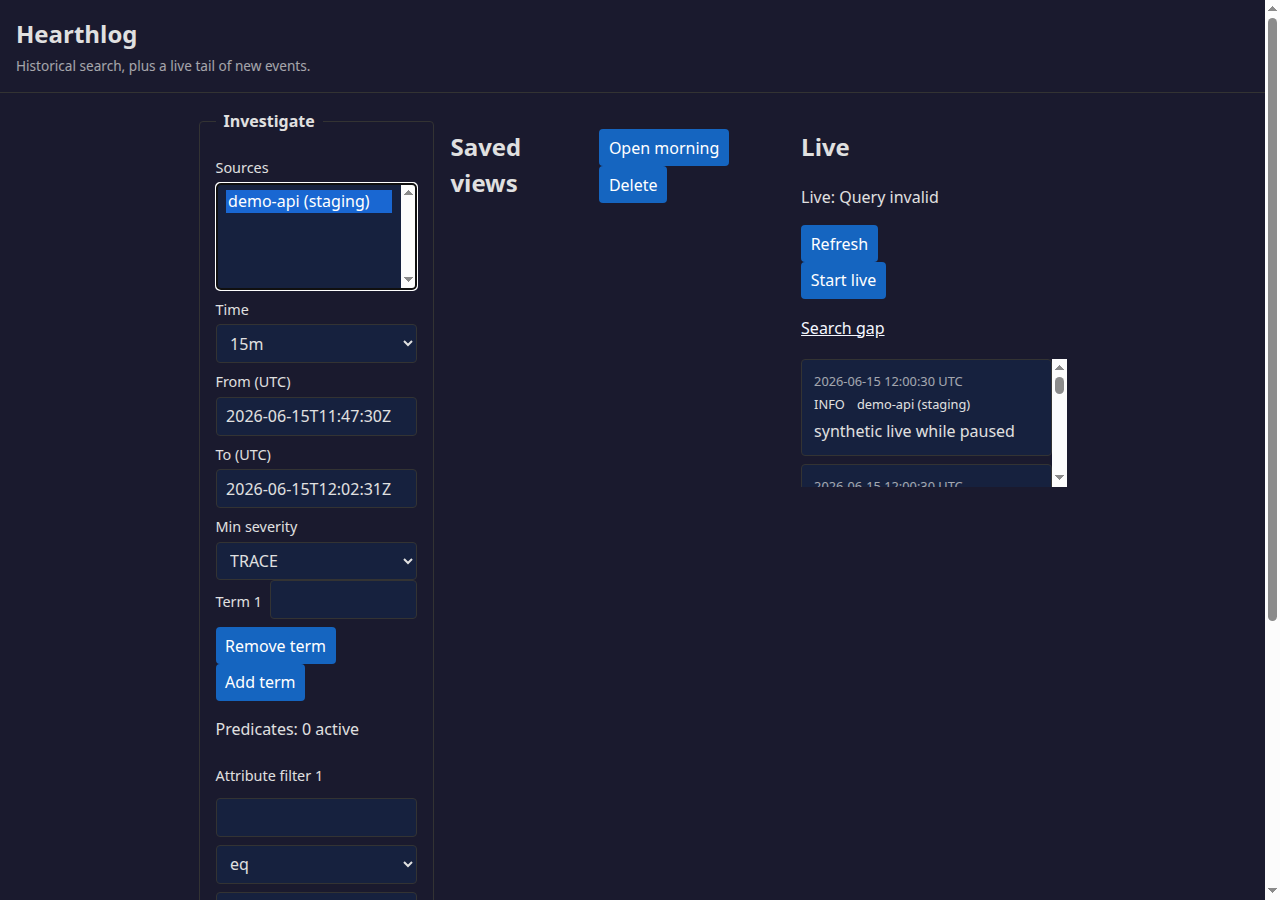
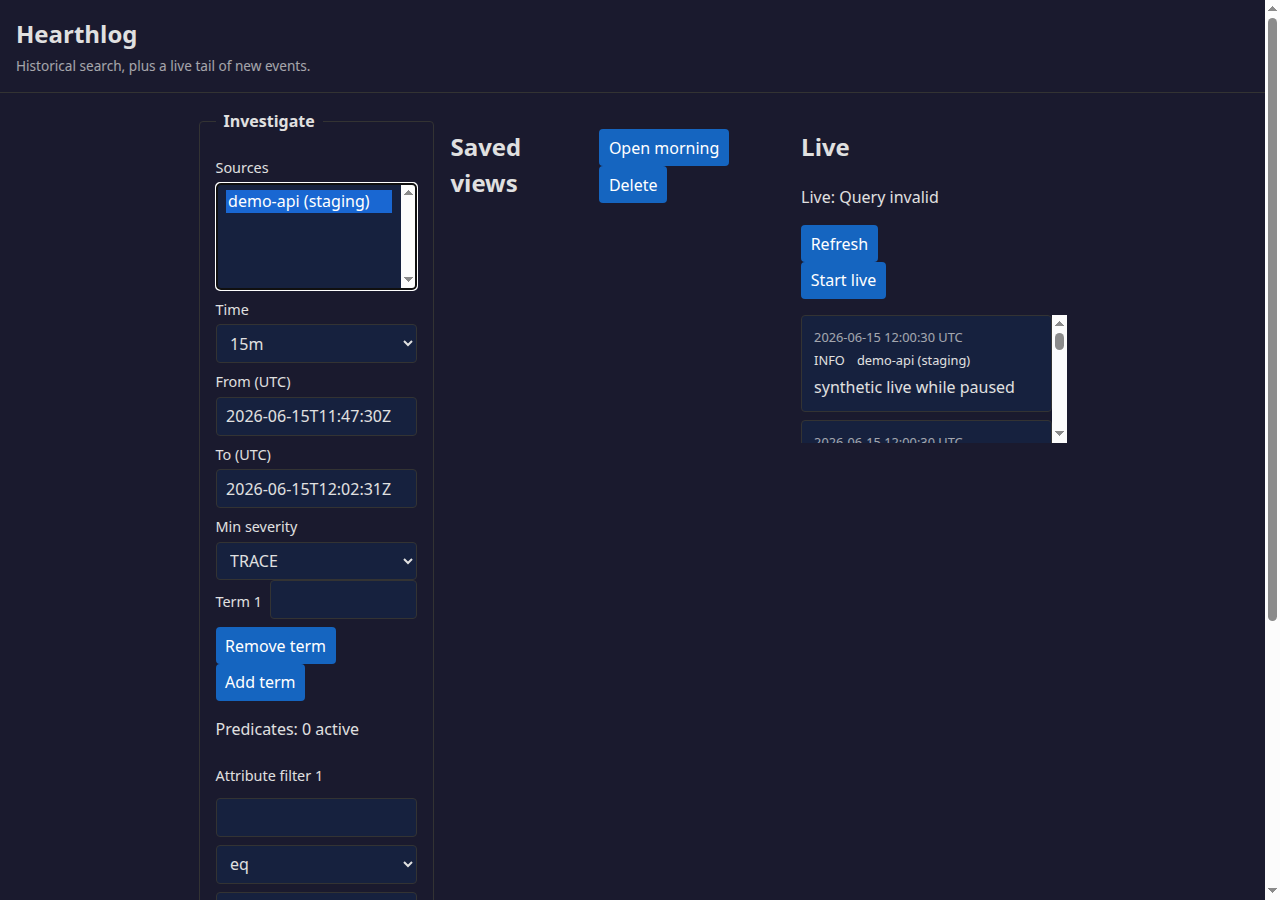
Keep live after a new login, and stop aborting Open details.
A replaced session drops the previous slots before the cap check, so the
same client id and a fresh id both start. Open details uses its own
hx-sync slot, so a search cannot abort that POST. Search gap stays
hidden until the gap state. receipt_hi pins after a forward clock spike
and logs when it is more than a second ahead.

Changed region(s): [[0.625, 0.3422, 0.8438, 0.56], [0.8125, 0.3422, 0.8438, 0.4356], [0.7188, 0.5289, 0.75, 0.56]]

diff --git a/internal/server/browser_e2e.js b/internal/server/browser_e2e.js
@@ -275,7 +275,8 @@ async function diag(send, session) {
         liveTrigger: !!document.getElementById('live-trigger'),
         generation: gens,
         sequence: seqs,
-        activeHTML: a ? a.outerHTML : ''
+        activeHTML: a ? a.outerHTML : '',
+        hx: (window.__hxlog || []).join(' | ')
       });
     })()`);
   } catch (e) {
@@ -354,6 +355,47 @@ async function login(send, session) {
   await waitIdle(send, session);
   await ev(send, session, `document.querySelector('button[type=submit]').click()`);
   await waitFn(send, session, `location.pathname === '/investigate' && document.getElementById('btn-search-implicit') ? 'yes' : ''`, 10000);
+  if (!noJS.has(session)) await armHXLog(send, session);
+}
+
+async function armHXLog(send, session) {
+  await ev(send, session, `(() => {
+    if (window.__hxlog) return 'ok';
+    window.__hxlog = [];
+    function idOf(el) {
+      if (!el || !el.getAttribute) return '';
+      return el.getAttribute('id') || el.tagName || '';
+    }
+    function push(kind, e) {
+      const d = e.detail || {};
+      const elt = d.elt || e.target;
+      const path = (d.path || (d.requestConfig && d.requestConfig.path) || '');
+      window.__hxlog.push(kind + ' ' + idOf(elt) + ' ' + path);
+      if (window.__hxlog.length > 40) window.__hxlog.shift();
+    }
+    document.body.addEventListener('htmx:beforeRequest', (e) => push('before', e));
+    document.body.addEventListener('htmx:abort', (e) => push('abort', e));
+    return 'ok';
+  })()`);
+}
+
+async function gapShown(send, session) {
+  return await ev(send, session, `(() => {
+    const el = document.getElementById('btn-search-gap');
+    if (!el) return 'missing';
+    const cs = getComputedStyle(el);
+    return (cs.display !== 'none' && el.getClientRects().length > 0) ? 'visible' : 'hidden';
+  })()`);
+}
+
+async function hasBox(send, session, selector) {
+  const nodeId = await domQuery(send, session, selector);
+  try {
+    await send('DOM.getBoxModel', { nodeId }, session);
+    return true;
+  } catch (e) {
+    return false;
+  }
 }
 
 async function jsOffHTML(send, session) {
@@ -543,12 +585,14 @@ async function main() {
         const path = (info && info.requestPath) || '';
         if (path.indexOf('/search') === -1) return;
         document.body.removeEventListener('htmx:afterSwap', onSwap);
-        document.getElementById('msg-term-1').value = 'commonwide';
-        document.getElementById('pred-1').value = 'task.attempt';
-        document.querySelector('#filters select[name=op]').value = 'eq';
-        document.querySelector('#filters select[name=ptype]').value = 'integer';
-        document.querySelector('#filters input[name=pval]').value = '999';
-        document.getElementById('btn-search').click();
+        setTimeout(function() {
+          document.getElementById('msg-term-1').value = 'commonwide';
+          document.getElementById('pred-1').value = 'task.attempt';
+          document.querySelector('#filters select[name=op]').value = 'eq';
+          document.querySelector('#filters select[name=ptype]').value = 'integer';
+          document.querySelector('#filters input[name=pval]').value = '999';
+          document.getElementById('btn-search').click();
+        }, 0);
       });
       document.getElementById('btn-search').click();
     })()`);
@@ -584,10 +628,12 @@ async function main() {
         const path = (info && info.requestPath) || '';
         if (path.indexOf('/search') === -1) return;
         document.body.removeEventListener('htmx:afterSwap', onSwap);
-        document.getElementById('time-select').value = 'custom';
-        document.getElementById('f-from').value = 'not-a-time';
-        document.getElementById('f-to').value = 'not-a-time';
-        document.getElementById('btn-search').click();
+        setTimeout(function() {
+          document.getElementById('time-select').value = 'custom';
+          document.getElementById('f-from').value = 'not-a-time';
+          document.getElementById('f-to').value = 'not-a-time';
+          document.getElementById('btn-search').click();
+        }, 0);
       });
       document.getElementById('time-select').value = '15m';
       document.getElementById('pred-1').value = '';
@@ -655,6 +701,7 @@ async function main() {
 
     say('STEP live');
     await waitIdle(send, session);
+    if (await gapShown(send, session) !== 'hidden') throw new Error('search gap visible while live is off');
     await ev(send, session, `(() => {
       document.getElementById('time-select').value = '15m';
       document.getElementById('severity-select').value = '1';
@@ -674,6 +721,7 @@ async function main() {
       if (document.querySelector('.htmx-request, .htmx-swapping, .htmx-settling')) return '';
       return 'yes';
     })()`, 10000);
+    if (await gapShown(send, session) !== 'hidden') throw new Error('search gap visible while receiving');
     say('NEED_LIVE');
     await nextLine();
     await waitFn(send, session, `document.querySelectorAll('#live-rows li').length >= 12 && document.getElementById('live-rows').textContent.includes('synthetic live arrived') ? 'yes' : ''`, 12000);
@@ -735,11 +783,13 @@ async function main() {
       if (document.querySelector('.htmx-request, .htmx-swapping, .htmx-settling')) return '';
       return 'yes';
     })()`);
+    if (await gapShown(send, session) !== 'hidden') throw new Error('search gap visible while paused');
+    say('NEED_GAP');
+    await nextLine();
+    await clickId(send, session, 'btn-live-resume');
+    await waitFn(send, session, `document.getElementById('live-status') && document.getElementById('live-status').textContent === 'Live: Gap detected' ? 'yes' : ''`, 15000);
+    if (await gapShown(send, session) !== 'visible') throw new Error('search gap hidden in the gap state');
     if (SHOT_DIR) {
-      say('NEED_GAP');
-      await nextLine();
-      await clickId(send, session, 'btn-live-resume');
-      await waitFn(send, session, `document.getElementById('live-status') && document.getElementById('live-status').textContent === 'Live: Gap detected' ? 'yes' : ''`, 15000);
       await shotOf(send, session, 'live-gap-desktop.png', '#live-panel');
       await metrics(send, session, 390, 844, true);
       await shotOf(send, session, 'live-gap-390.png', '#live-panel');
@@ -747,6 +797,7 @@ async function main() {
       await ev(send, session, `document.getElementById('live-cursor-received').value = 'nope'`);
       await clickId(send, session, 'btn-live-resume');
       await waitFn(send, session, `document.getElementById('live-status') && document.getElementById('live-status').textContent === 'Live: Query invalid' ? 'yes' : ''`, 10000);
+      if (await gapShown(send, session) !== 'hidden') throw new Error('search gap visible on query invalid');
       await shotOf(send, session, 'live-error-desktop.png', '#live-panel');
       await metrics(send, session, 390, 844, true);
       await shotOf(send, session, 'live-error-390.png', '#live-panel');
@@ -763,6 +814,9 @@ async function main() {
     const off = await newSession(send, { disableJS: true });
     await send('Page.navigate', { url: BASE + '/investigate' }, off);
     await waitHTML(send, off, 'id="btn-search-implicit"', 10000);
+    const noJSGap = await waitHTML(send, off, 'id="btn-search-gap"', 10000);
+    if (!noJSGap.includes('id="btn-search-gap" hidden')) throw new Error('no-js search gap is not hidden');
+    if (await hasBox(send, off, '#btn-search-gap')) throw new Error('no-js search gap is visible');
     const termNode = await domQuery(send, off, '#msg-term-1');
     await send('DOM.focus', { nodeId: termNode }, off);
     await send('Input.insertText', { text: 'checkout' }, off);

diff --git a/internal/server/web/results.html b/internal/server/web/results.html
@@ -4,7 +4,7 @@
 <h2 id="results-heading" tabindex="-1"{{if and (eq .Focus "results") (eq .OriginID "")}} autofocus{{end}}>Results</h2>
 {{if .Window}}<p class="window">{{.Window}}</p>{{end}}
 {{if .Rows}}
-<form id="detail-form" method="POST" action="/investigate/detail" hx-post="/investigate/detail" hx-target="#detail-region" hx-swap="outerHTML">
+<form id="detail-form" method="POST" action="/investigate/detail" hx-post="/investigate/detail" hx-target="#detail-region" hx-swap="outerHTML" hx-sync="this:drop">
 {{if .PageCursor}}{{template "cursor-only" .}}{{else}}{{template "frozen" .}}{{end}}
 </form>
 <ul class="results">

diff --git a/internal/server/web/style.css b/internal/server/web/style.css
@@ -55,6 +55,7 @@ button:disabled{background:#d7deea;color:#1a1a2e}
 #live-rows{max-height:8rem;overflow-y:auto;min-width:0}
 #live-panel .toolbar button{width:auto}
 #btn-search-gap{color:#f4f7ff;background:transparent;display:block;flex:1 1 100%;margin:.35rem 0 0;padding:.2rem 0;text-decoration:underline;width:auto}
+#btn-search-gap[hidden]{display:none}
 .d0{margin-left:0}
 .d1{margin-left:.75rem}
 .d2{margin-left:1.5rem}

diff --git a/internal/server/web/app.js b/internal/server/web/app.js
@@ -421,6 +421,8 @@ return hex;
 }
 return "liveclient0000001";
 }
+// A duplicated tab copies sessionStorage, so both tabs share this client id.
+// The server then throttles the second tab.
 function initLiveClient(){
 var el=doc.getElementById("live-client");
 if(!el)return;

diff --git a/internal/server/live.go b/internal/server/live.go
@@ -33,12 +33,14 @@ const (
 
 var liveClientRe = regexp.MustCompile(`^[a-z0-9]{8,32}$`)
 
-// livePace is the clock for the per-slot minimum interval. Slot expiry uses
-// the store clock. Tests replace this; production uses time.Now.
+// livePace is the clock for the per-slot minimum interval. It stays unset in
+// a normal process, and paceNow then uses time.Now. Tests in this package
+// store a func() time.Time. Slot expiry uses the store clock, not this one.
 var livePace atomic.Value
 
 // liveGate blocks inside a live request after the slot is marked busy.
-// Tests use it to hold one request in flight.
+// It stays nil in a normal process. Tests store a func() to hold one
+// request in flight.
 var liveGate atomic.Pointer[func()]
 
 func paceNow() time.Time {
@@ -78,15 +80,15 @@ func (h *liveHub) begin(ws, session, client string, now, pace time.Time, start b
 		slots = map[string]*liveSlot{}
 		h.m[ws] = slots
 	}
+	// One process has one session. A replaced login must not keep the
+	// previous session's slots, or the same id is forbidden and a new id
+	// fills the cap until the TTL.
 	for id, slot := range slots {
-		if !slot.busy && now.Sub(slot.seen) > liveSlotTTL {
+		if slot.session != session || (!slot.busy && now.Sub(slot.seen) > liveSlotTTL) {
 			delete(slots, id)
 		}
 	}
 	slot := slots[client]
-	if slot != nil && slot.session != session {
-		return liveBegin{status: http.StatusForbidden}
-	}
 	if slot == nil {
 		if start {
 			evictOwnSlot(slots, session)
@@ -132,7 +134,7 @@ func evictOwnSlot(slots map[string]*liveSlot, session string) {
 	}
 }
 
-func (h *liveHub) finish(ws, client string, behind bool, asOf int64) {
+func (h *liveHub) finish(ws, session, client string, behind bool, asOf int64) {
 	h.mu.Lock()
 	defer h.mu.Unlock()
 	slots := h.m[ws]
@@ -140,7 +142,7 @@ func (h *liveHub) finish(ws, client string, behind bool, asOf int64) {
 		return
 	}
 	slot := slots[client]
-	if slot == nil {
+	if slot == nil || slot.session != session {
 		return
 	}
 	slot.busy = false
@@ -234,7 +236,8 @@ func (s *Server) livePOST(w http.ResponseWriter, r *http.Request) {
 		s.liveFail(w, r, status, code, copyLiveInvalid)
 		return
 	}
-	begun := s.live.begin(demoWorkspace, s.sessionKey(), client, s.now(), paceNow(), intent == "start")
+	session := s.sessionKey()
+	begun := s.live.begin(demoWorkspace, session, client, s.now(), paceNow(), intent == "start")
 	if begun.status == http.StatusTooManyRequests {
 		w.Header().Set("Retry-After", "5")
 		s.liveFail(w, r, http.StatusTooManyRequests, "throttled", copyLiveThrottled)
@@ -246,7 +249,7 @@ func (s *Server) livePOST(w http.ResponseWriter, r *http.Request) {
 	}
 	var behind bool
 	var asOfOut int64
-	defer func() { s.live.finish(demoWorkspace, client, behind, asOfOut) }()
+	defer func() { s.live.finish(demoWorkspace, session, client, behind, asOfOut) }()
 	if gate := liveGate.Load(); gate != nil && *gate != nil {
 		(*gate)()
 	}

diff --git a/internal/storage/sqlite/commit.go b/internal/storage/sqlite/commit.go
@@ -5,6 +5,7 @@ import (
 	"database/sql"
 	"errors"
 	"fmt"
+	"log/slog"
 	"strconv"
 	"time"
 
@@ -114,6 +115,10 @@ func nilIfEmpty(s *string) any {
 // backward must not store a received_at behind a row the live keyset has
 // already passed. The floor is the metadata row plus the table max, so it
 // survives a restart and a delete of the newest row.
+//
+// A forward spike pins receipt_hi. Later rows keep that receipt until the
+// wall clock catches up, and retention, which uses receipt time, waits
+// with them. A gap of more than a second is logged.
 func monotonicReceipt(ctx context.Context, tx *sql.Tx, wall time.Time) (time.Time, error) {
 	var hi, mx int64
 	if err := tx.QueryRowContext(ctx, `SELECT COALESCE((SELECT CAST(value AS INTEGER) FROM metadata WHERE key='receipt_hi'), 0)`).Scan(&hi); err != nil {
@@ -127,6 +132,9 @@ func monotonicReceipt(ctx context.Context, tx *sql.Tx, wall time.Time) (time.Tim
 	}
 	got := wall.UTC().Truncate(time.Microsecond).UnixMicro()
 	if hi > got {
+		if behind := hi - got; behind > int64(time.Second/time.Microsecond) {
+			slog.Warn("receipt_hi ahead of wall clock", "behind_us", behind)
+		}
 		got = hi
 	}
 	if _, err := tx.ExecContext(ctx, `INSERT INTO metadata(key, value) VALUES('receipt_hi', ?) ON CONFLICT(key) DO UPDATE SET value=excluded.value`, strconv.FormatInt(got, 10)); err != nil {

diff --git a/internal/server/live_test.go b/internal/server/live_test.go
@@ -235,6 +235,27 @@ func TestLiveReloadDoesNotLockOut(t *testing.T) {
 	}
 }
 
+func TestLiveReplacedSessionStarts(t *testing.T) {
+	_, ts, readTok, _, _ := newTestApp(t)
+	origin := "http://" + ts.Listener.Addr().String()
+	first, csrf1 := login(t, ts, readTok)
+	for _, id := range []string{"oldsession1", "oldsession2"} {
+		code, _, body := postForm(t, first, origin, "/investigate/live", liveVals(csrf1, id, "start", "0", "0"), true)
+		if code != 200 {
+			t.Fatalf("first %s %d %s", id, code, body)
+		}
+	}
+	second, csrf2 := login(t, ts, readTok)
+	code, _, body := postForm(t, second, origin, "/investigate/live", liveVals(csrf2, "oldsession1", "start", "0", "0"), true)
+	if code != 200 || !strings.Contains(string(body), "Live: Receiving") {
+		t.Fatalf("same id after replace %d %s", code, body)
+	}
+	code, _, body = postForm(t, second, origin, "/investigate/live", liveVals(csrf2, "freshid001", "start", "0", "0"), true)
+	if code != 200 || !strings.Contains(string(body), "Live: Receiving") {
+		t.Fatalf("fresh id after replace %d %s", code, body)
+	}
+}
+
 func TestLiveMinIntervalAndInFlight(t *testing.T) {
 	store, ts, readTok, _, _ := newTestApp(t)
 	origin := "http://" + ts.Listener.Addr().String()

diff --git a/internal/server/browser_e2e_test.go b/internal/server/browser_e2e_test.go
@@ -43,6 +43,9 @@ func TestClientContracts(t *testing.T) {
 	if !strings.Contains(sheet, "#btn-search-gap{color:#f4f7ff;") {
 		t.Fatal("search gap link must use the light text color")
 	}
+	if !strings.Contains(sheet, "#btn-search-gap[hidden]{display:none}") {
+		t.Fatal("search gap link must stay undisplayed while hidden")
+	}
 
 	store, ts, readTok, _, _ := newTestApp(t)
 	origin := "http://" + ts.Listener.Addr().String()

diff --git a/docs/evidence/SLICE07.md b/docs/evidence/SLICE07.md
@@ -45,11 +45,10 @@ ok  example.invalid/hearthlog/internal/storage/sqlite  18.612s
 ok  example.invalid/hearthlog/internal/emitter         21.904s
 ```
 
-Same command with `-json`: 138 top-level tests, 344 including subtests,
-0 failures (cmd 1, examples 4, emitter 38/108, model 11/76, server 42/85,
-sqlite 42/70). Node: 9 pass, 0 fail. The server package includes one
-`TestBrowserE2E`. `TestLivePollConcurrentNoLoss` is in the sqlite package,
-so it passed under `-race`.
+`TestBrowserE2E` and `TestLiveBrowserP95` run inside `go test -race`.
+Package server has no skip and no build tag that drops them under the race
+detector. CI's race step runs them too. `TestLivePollConcurrentNoLoss` is
+in the sqlite package and also passes under `-race`.
 
 `TestBrowserE2E -count=100` passed 100/100 in 487.526s, with 0 failures.
 Each run includes the live step (`live-scroll paused`, pause holds a new
@@ -85,7 +84,10 @@ not leave the slot held.
 The poll cursor is `(received_at, ingest_id)`. `received_at` is the later of
 the wall clock and the last persisted receipt (`receipt_hi`, and
 `MAX(received_at)`), written in the commit transaction, so a backward clock
-step cannot hide a row from the keyset. Each poll reads the watermark on the
+step cannot hide a row from the keyset. A forward spike pins `receipt_hi`.
+Later rows keep that receipt until the wall clock catches up, and retention
+waits with them. A clamp of more than one second logs
+`receipt_hi ahead of wall clock`. Each poll reads the watermark on the
 reader connection and ignores higher ingest ids. Rows are ordered by that
 pair, so equal receipt times are not skipped or repeated. Filters run in Go
 after the scan, and the cursor moves to the last examined row, including
@@ -101,7 +103,7 @@ moved to `as_of`, so quiet time before that poll is not a gap.
 
 | Acceptance | Proof |
 |---|---|
-| 1s htmx polls, <=1 outstanding request/tab and <=2 Live clients/workspace; read only committed ingest IDs from the persisted single-writer watermark, including after rollback/restart | `app.js` mounts `every 1000ms, live-now` and keeps one `liveXhr`. Node test checks `hx-sync="#live-trigger:drop"`. The server allows one in-flight request per slot and a 200ms minimum interval, and returns 429 `Live: Throttled` with `Retry-After: 5` otherwise. `TestLiveMinIntervalAndInFlight` accepts the follow-up while a page is behind, rejects the next poll inside the interval, and accepts 1 of 16 overlapping polls. `TestLivePollHTTP` returns 429 for a third client id; a 16s clock step frees the slot. `TestLiveReloadDoesNotLockOut` starts three different ids and the same id three times, all 200, and `intent=stop` releases the slot. `TestLivePollRollbackRestartAndEmpty` aborts a watermark update, holds an uncommitted insert, reopens the file, and deletes every row. The rejected and uncommitted messages are absent, and the watermark is unchanged. |
+| 1s htmx polls, <=1 outstanding request/tab and <=2 Live clients/workspace; read only committed ingest IDs from the persisted single-writer watermark, including after rollback/restart | `app.js` mounts `every 1000ms, live-now` and keeps one `liveXhr`. Node test checks `hx-sync="#live-trigger:drop"`. The server allows one in-flight request per slot and a 200ms minimum interval, and returns 429 `Live: Throttled` with `Retry-After: 5` otherwise. `TestLiveMinIntervalAndInFlight` accepts the follow-up while a page is behind, rejects the next poll inside the interval, and accepts 1 of 16 overlapping polls. `TestLivePollHTTP` returns 429 for a third client id; a 16s clock step frees the slot. `TestLiveReloadDoesNotLockOut` starts three different ids and the same id three times, all 200, and `intent=stop` releases the slot. `TestLiveReplacedSessionStarts` fills both slots, replaces the session, and starts again with the same id and a fresh id, both 200. `TestLivePollRollbackRestartAndEmpty` aborts a watermark update, holds an uncommitted insert, reopens the file, and deletes every row. The rejected and uncommitted messages are absent, and the watermark is unchanged. |
 | Fetch <=200 rows/poll and advance by the highest examined authorized scan position even with sparse filters; bounded scan exhaustion yields an explicit gap, never silent loss | `liveMatchLimit` is 200. `TestLivePollSparseFilter` skips 400 non-matches in pages and then returns the one ERROR row. `TestLivePollNotCaughtUp` returns 200 rows with `CaughtUp` false, then the last row. `TestLivePollBudgetGap` sets the step cap to 1000 and expects a gap with the cursor unchanged. `TestLivePollClockStepBack` steps the clock back by 1us, 1s, and 10s, reopens the file, and still returns every row committed after the step. `TestLivePollEqualReceivedAt` and `TestLivePollPagesTiedRows` page 250 and 201 rows that share one `received_at`. |
 | Render escaped row partials; minimal external listener updates cursor/status, dedups and prunes the DOM to 1,000 rows before the next poll. No DB transaction is retained while the client reads HTML | `web/live.html` is a normal template. `TestLivePollHTTP` requires `&lt;script&gt;` and `&lt;div hx-get=` and rejects a raw `<script` tag, and `beforeRender` sees `ReaderInUse()==0`. The node test merges two equal ingest ids into one node and prunes 1005 rows to 1000, keeping the newest. |
 | Pause freezes rows and cancels polling; a hidden or closed tab stops; reconnect checks auth and <=5,000 events/30s catch-up, otherwise a gap plus a historical-search action | `TestBrowserE2E` scrolls the live list (`live-scroll paused`), pauses, inserts `synthetic live while paused`, and does not show it until Resume. The node test removes the trigger on `visibilitychange` hidden and remounts it on visible. The request after the tab is visible again is `intent=resume`, which is what the browser sends. `pagehide` posts `intent=stop` and then calls `clearLive`. `TestLivePollQuietAsOf` is 35s with no new rows, then 2s and one new row: the row is returned and the cursor is not `as_of`. `TestLivePollCatchupGap` gaps a steady poll when the newest row is 31s after `as_of`, and gaps 5001 rows. `TestLivePollHTTP` returns HTTP 410 with `X-Live-Gap-From` and `X-Live-Gap-To`. Search gap fills the historical from/to fields. A second login makes the old poll 401 and the existing session copy. |
@@ -178,9 +180,18 @@ at 1280 (1265 with the scrollbar gutter), 390, and 360.
   on the store clock, which is longer than the 2s idle cap. `pagehide` posts
   `intent=stop`, and a new start from the same session replaces that
   session's oldest slot, so three reloads are not locked out for the TTL.
-  The Search gap link is `#f4f7ff` on `#1a1a2e` (contrast 15.9:1) and takes
+  A replaced login drops every slot from the previous session before the
+  cap check, so the same id and a fresh id both start. `TestLiveReplacedSessionStarts`
+  covers that. `livePace` and `liveGate` are unset in a normal process.
+  They exist so tests can move the interval clock and hold one request.
+  A duplicated tab copies sessionStorage, so both tabs share one client id
+  and the second tab is throttled.
+  The Search gap link is `#f4f7ff` on `#1a1a2e` (contrast 15.9:1), takes
   its own row in the toolbar so it does not wrap into the buttons at 360
-  or 390.
+  or 390, and `#btn-search-gap[hidden]{display:none}` keeps it off the page
+  until the gap state. Open details posts `#detail-form` once
+  (`hx-sync="this:drop"`), so that request is not the shared investigation
+  slot.
 - Start uses `LiveTail`: the cursor is the newest retained `received_at` in
   the workspace and the current watermark. History is not replayed. A later
   row with that same receipt time and a higher ingest id is still returned.

diff --git a/docs/ui/TRANSPORT.md b/docs/ui/TRANSPORT.md
@@ -25,7 +25,7 @@ All interactions use fixed same-origin routes. `HX-Request` is a routing hint on
 
 ## Synchronization and Stale Response Handling
 
-*   **hx-sync:** All search/detail/paging requests use `hx-sync="#investigation:replace"`. New searches cancel older in-flight requests and invalidate the currently selected detail view.
+*   **hx-sync:** Search and paging requests use `hx-sync="#investigation:replace"`. New searches cancel older in-flight search requests and invalidate the currently selected detail view. Open details uses `hx-sync="this:drop"` on its own form, so a cancelled sibling request cannot abort that POST.
 *   **Generation & Sequence:** Server echoes submitted bounded query generation, selection ID, and request sequence as trusted scalars in the response.
 *   **Pre-Swap Validation:** An external `htmx:beforeSwap` handler (no inline scripts) validates generation, request sequence, and **selected-detail ID** against current DOM state **before** any DOM modification. Stale responses (including those targeting an older detail selection) are rejected and discarded. This occurs prior to `innerHTML` application.
 *   **Live Region:** `#live-region` uses append/prune logic per [LIVE.md](LIVE.md), not generic `innerHTML` replacement.
